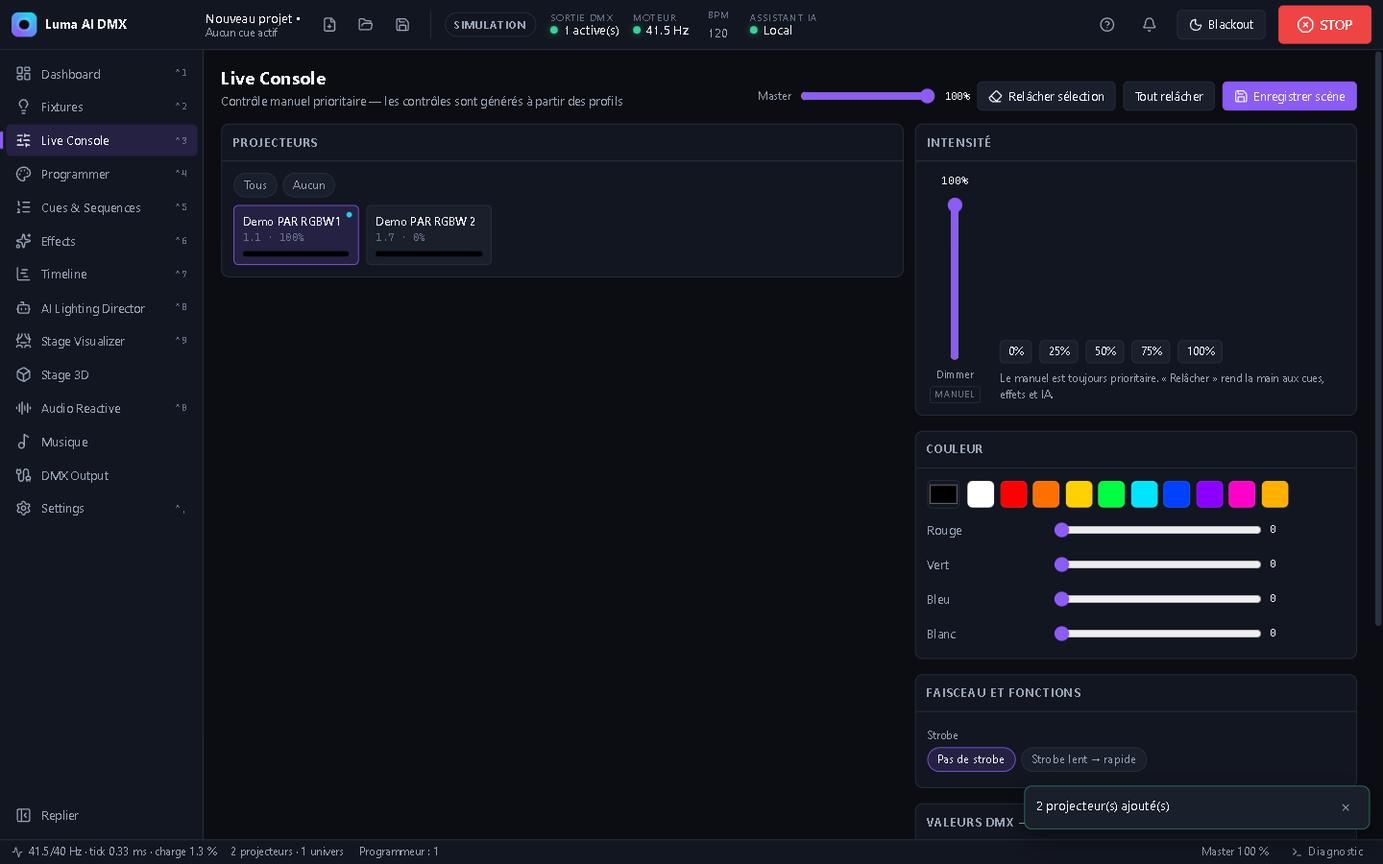
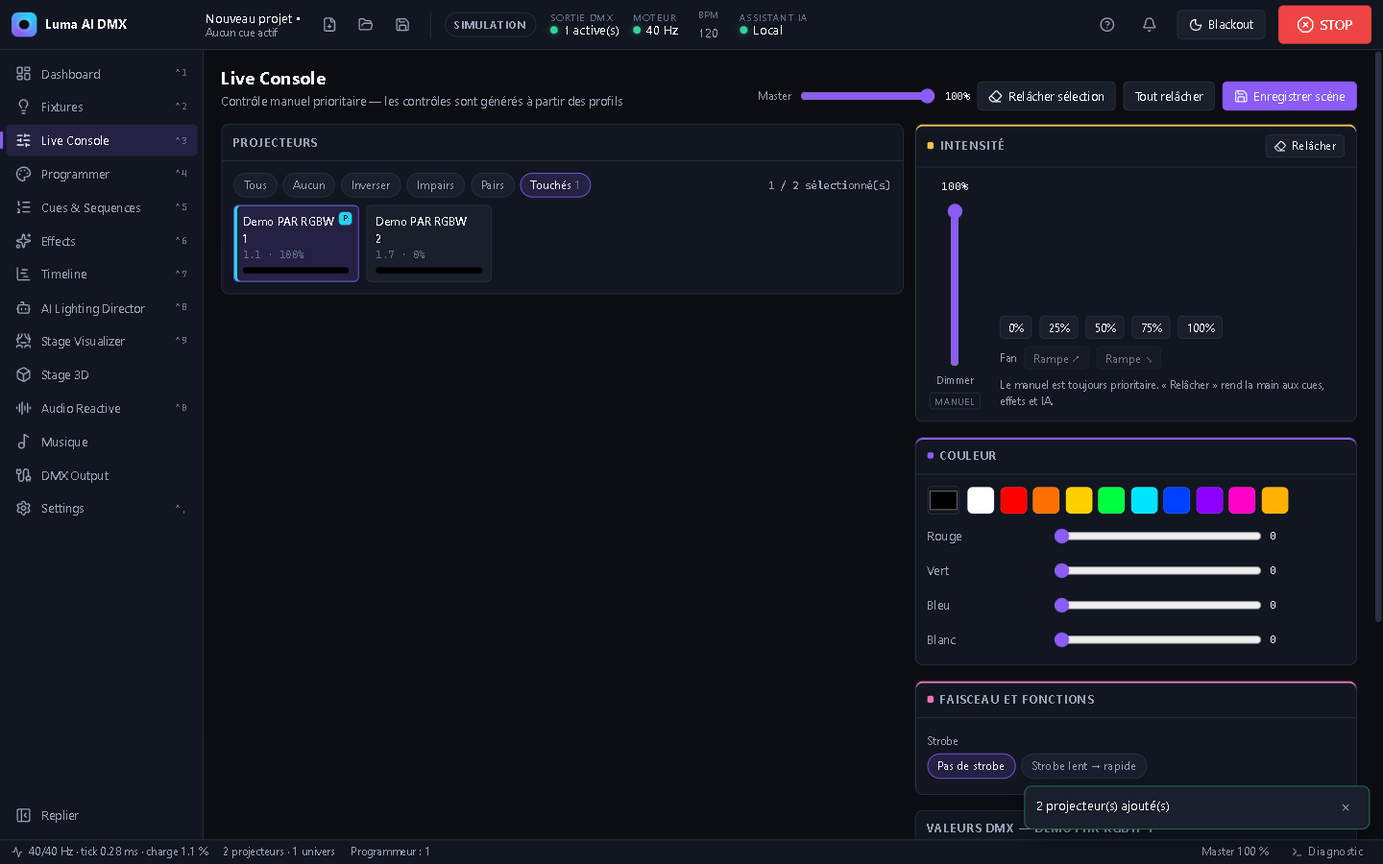
Ce que j’ai ajouté (dans LiveConsole.tsx, avec le CSS dans styles.css) :
Sélection rapide :
nouveaux boutons Inverser, Impairs et Pairs (appliqués à la sélection courante, ou à tous les projecteurs s’il n’y en a qu’un de sélectionné) ;
un bouton « Touchés » pour sélectionner les projecteurs qui ont des valeurs dans le programmeur ;
des puces par type de projecteur (PAR, lyres spot…) à côté des groupes ;
un compteur « n / total sélectionné(s) ».
État « touché » visible : badge P et liseré cyan sur les tuiles concernées, et valeur en cyan sur les curseurs touchés.
Relâcher par famille : chaque panneau (intensité, couleur, position, faisceau) a son propre bouton « Relâcher ». Il n’apparaît que si le programmeur contient des valeurs de cette famille et utilise programmer.release avec la liste des attributs.
Fan :
rampes d’intensité ↗ et ↘ ;
éventail de pan (±0,15 autour de la valeur courante) ;
réparti dans l’ordre de sélection, désactivé avec moins de 2 projecteurs ;
l’envoi réutilise la commande programmer.set existante, une par projecteur : pas de nouvelle commande IPC, donc pas de nouveau schéma Zod.
Présentation : une couleur d’accent par famille d’attributs, et les contrôles passent sous les tuiles quand la fenêtre fait moins de 1180 px.
Textes : tous les nouveaux libellés passent par i18n (clés console.* en FR et EN). Le nombre de textes en dur de ce fichier passe de 59 à 50 et j’ai abaissé la référence dans scripts/i18n-baseline.json. Le manuel reste prioritaire et Échap relâche toujours.

diff --git a/src/renderer/features/LiveConsole.tsx b/src/renderer/features/LiveConsole.tsx
@@ -1,9 +1,10 @@
 import { useMemo, useRef, useState } from 'react';
 import { Eraser, Save, SlidersHorizontal } from 'lucide-react';
 import { useStore, confirmAction, EMPTY_OBJ } from '../store';
+import { useT } from '../i18n';
 import { act } from '../api';
 import { Empty, Modal, Field, PageHead, Panel, pct, useResolved, useThrottled } from '../components/ui';
-import { attributeClass, attributeLabel, EMITTER_ATTRIBUTES } from '../../core/fixtures/attributes';
+import { attributeClass, attributeLabel, EMITTER_ATTRIBUTES, type AttributeClass } from '../../core/fixtures/attributes';
 import { cellColors, colorCapability, colorCells, displayColor } from '../../core/fixtures/color';
 import { channelKey, coarseChannel, type ResolvedFixture } from '../../core/fixtures/profiles';
 import { findModule, moduleDimmerKeys, moduleOfCell } from '../../core/fixtures/modules';
@@ -12,37 +13,65 @@ import type { Channel } from '../../core/model/schemas';
 
 const QUICK_COLORS = ['#FFFFFF', '#FF0000', '#FF7000', '#FFD000', '#00FF40', '#00E5FF', '#0040FF', '#8B00FF', '#FF00C8', '#FFB000'];
 
+/** Fixture ids holding programmer values (the « touched » state shown on tiles and panels). */
+const touchedIds = (programmer: Record<string, Record<string, number>>, ids: string[]) => ids.filter((id) => Object.keys(programmer[id] ?? {}).length > 0);
+
+/** Evenly spread `from` → `to` over `n` fixtures (selection order). */
+export const fanValues = (n: number, from: number, to: number): number[] => Array.from({ length: n }, (_, i) => (n < 2 ? from : from + ((to - from) * i) / (n - 1)));
+
 export function FixtureTiles({ onPick }: { onPick?: () => void }) {
+  const tr = useT();
   const { fixtures } = useResolved();
   const values = useStore((s) => s.values);
   const programmer = useStore((s) => s.runtime?.programmer ?? EMPTY_OBJ) as Record<string, Record<string, number>>;
   const selection = useStore((s) => s.selection);
   const setSelection = useStore((s) => s.setSelection);
   const groups = useStore((s) => s.project!.project.groups);
+  const all = fixtures.map((f) => f.fixture.id);
+  const types = [...new Set(fixtures.map((f) => f.profile.type))];
+  const touched = touchedIds(programmer, all);
+  const parity = (rest: number) => (selection.length > 1 ? selection : all).filter((_, i) => i % 2 === rest);
   const click = (id: string, e: React.MouseEvent) => {
     if (e.ctrlKey || e.metaKey || e.shiftKey) setSelection(selection.includes(id) ? selection.filter((x) => x !== id) : [...selection, id]);
     else setSelection(selection.length === 1 && selection[0] === id ? [] : [id]);
     onPick?.();
   };
+  const same = (ids: string[]) => ids.length > 0 && ids.length === selection.length && ids.every((id) => selection.includes(id));
   return (
     <div className="col">
-      <div className="chips">
-        <button className="chip" onClick={() => setSelection(fixtures.map((f) => f.fixture.id))}>Tous</button>
-        <button className="chip" onClick={() => setSelection([])}>Aucun</button>
-        {groups.map((g) => (
-          <button key={g.id} className={`chip ${g.fixtureIds.length && g.fixtureIds.every((id) => selection.includes(id)) && selection.length === g.fixtureIds.length ? 'on' : ''}`} style={{ borderLeft: `3px solid ${g.color}` }} onClick={() => setSelection(g.fixtureIds)}>
-            {g.name} <span className="dim">{g.fixtureIds.length}</span>
-          </button>
-        ))}
+      <div className="sel-bar">
+        <div className="chips" role="group" aria-label={tr('console.select.aria')}>
+          <button className="chip" onClick={() => setSelection(all)}>{tr('console.select.all')}</button>
+          <button className="chip" onClick={() => setSelection([])}>{tr('console.select.none')}</button>
+          <button className="chip" onClick={() => setSelection(all.filter((id) => !selection.includes(id)))}>{tr('console.select.invert')}</button>
+          <button className="chip" title={tr('console.select.oddEvenHint')} onClick={() => setSelection(parity(0))}>{tr('console.select.odd')}</button>
+          <button className="chip" title={tr('console.select.oddEvenHint')} onClick={() => setSelection(parity(1))}>{tr('console.select.even')}</button>
+          {touched.length > 0 && <button className={`chip touched ${same(touched) ? 'on' : ''}`} title={tr('console.select.touchedHint')} onClick={() => setSelection(touched)}>{tr('console.select.touched')} <span className="dim">{touched.length}</span></button>}
+        </div>
+        <span className="small muted mono">{tr('console.select.count', { n: selection.length, total: all.length })}</span>
       </div>
+      {(types.length > 1 || groups.length > 0) && (
+        <div className="chips">
+          {types.length > 1 && types.map((ty) => {
+            const ids = fixtures.filter((f) => f.profile.type === ty).map((f) => f.fixture.id);
+            return <button key={ty} className={`chip ${same(ids) ? 'on' : ''}`} onClick={() => setSelection(ids)}>{tr(`console.type.${ty}`)} <span className="dim">{ids.length}</span></button>;
+          })}
+          {groups.map((g) => (
+            <button key={g.id} className={`chip ${same(g.fixtureIds) ? 'on' : ''}`} style={{ borderLeft: `3px solid ${g.color}` }} onClick={() => setSelection(g.fixtureIds)}>
+              {g.name} <span className="dim">{g.fixtureIds.length}</span>
+            </button>
+          ))}
+        </div>
+      )}
       <div className="fx-grid" data-testid="fixture-tiles">
         {fixtures.map((rf) => {
           const d = displayColor(rf, values[rf.fixture.id] ?? {});
           const c = d.color;
+          const isTouched = touched.includes(rf.fixture.id);
           return (
-            <div key={rf.fixture.id} className={`fx-tile ${selection.includes(rf.fixture.id) ? 'sel' : ''}`} onClick={(e) => click(rf.fixture.id, e)} title="Clic : sélectionner · Ctrl/Maj+clic : ajouter">
-              {programmer[rf.fixture.id] && <span className="prog" title="Valeurs dans le programmeur (manuel prioritaire)" />}
-              <div style={{ fontWeight: 600, fontSize: 12 }}>{rf.fixture.name}</div>
+            <div key={rf.fixture.id} className={`fx-tile ${selection.includes(rf.fixture.id) ? 'sel' : ''} ${isTouched ? 'touched' : ''}`} onClick={(e) => click(rf.fixture.id, e)} title={tr('console.tile.hint')}>
+              {isTouched && <span className="prog" title={tr('console.tile.touched')}>P</span>}
+              <div className="fx-name">{rf.fixture.name}</div>
               <div className="addr">{rf.fixture.universe}.{rf.fixture.address} · {pct(d.intensity)}</div>
               <div className="swatch" style={{ background: `rgb(${c.r * d.intensity * 255},${c.g * d.intensity * 255},${c.b * d.intensity * 255})` }} />
             </div>
@@ -53,9 +82,9 @@ export function FixtureTiles({ onPick }: { onPick?: () => void }) {
   );
 }
 
-function Slider({ label, value, onChange, source, title }: { label: string; value: number; onChange: (v: number) => void; source?: string; title?: string }) {
+function Slider({ label, value, onChange, source, title, touched }: { label: string; value: number; onChange: (v: number) => void; source?: string; title?: string; touched?: boolean }) {
   return (
-    <div className="ctl-row" title={title}>
+    <div className={`ctl-row ${touched ? 'touched' : ''}`} title={title}>
       <span className="lbl">{label}</span>
       <input type="range" min={0} max={255} value={Math.round(value * 255)} aria-label={label} onChange={(e) => onChange(Number(e.target.value) / 255)} />
       <span className="mono small">{Math.round(value * 255)} {source && <span className="tag-src" title="Source qui contrôle la valeur">{source}</span>}</span>
@@ -99,6 +128,15 @@ function XYPad({ pan, tilt, onChange }: { pan: number; tilt: number; onChange: (
   );
 }
 
+/** Panel action: release only this attribute family (intensity, colour…) on the selection, when the programmer holds some. */
+function ReleaseFamily({ ids, classes }: { ids: string[]; classes: AttributeClass[] }) {
+  const tr = useT();
+  const programmer = useStore((s) => s.runtime?.programmer ?? EMPTY_OBJ) as Record<string, Record<string, number>>;
+  const attributes = [...new Set(ids.flatMap((id) => Object.keys(programmer[id] ?? {})))].filter((a) => classes.includes(attributeClass(a)));
+  if (!attributes.length) return null;
+  return <button className="btn sm" title={tr('console.releaseFamilyHint')} onClick={() => void act({ type: 'programmer.release', fixtureIds: ids, attributes })}><Eraser size={13} />{tr('console.releaseFamily')}</button>;
+}
+
 function RecordSceneDialog({ onClose }: { onClose: () => void }) {
   const [name, setName] = useState('Nouvelle scène');
   const save = async () => {
@@ -116,6 +154,7 @@ function RecordSceneDialog({ onClose }: { onClose: () => void }) {
 }
 
 function Controls({ selected }: { selected: ResolvedFixture[] }) {
+  const tr = useT();
   const values = useStore((s) => s.values);
   const sources = useStore((s) => s.sources);
   const programmer = useStore((s) => s.runtime?.programmer ?? EMPTY_OBJ) as Record<string, Record<string, number>>;
@@ -124,6 +163,10 @@ function Controls({ selected }: { selected: ResolvedFixture[] }) {
   const first = selected[0]!;
   const cur = (attr: string) => programmer[first.fixture.id]?.[attr] ?? values[first.fixture.id]?.[attr] ?? 0;
   const src = (attr: string) => sources[first.fixture.id]?.[attr];
+  const touched = (attr: string) => programmer[first.fixture.id]?.[attr] !== undefined;
+  // Fan: one typed programmer.set per fixture (selection order), so no dedicated IPC command is needed.
+  const fan = (vals: (v: number) => Record<string, number>, from: number, to: number) =>
+    fanValues(ids.length, from, to).forEach((v, i) => void act({ type: 'programmer.set', fixtureIds: [ids[i]!], values: vals(v), confirmSpecial: false }));
   const sendThrottled = useThrottled((vals: Record<string, number>) => void act({ type: 'programmer.set', fixtureIds: ids, values: vals, confirmSpecial: false }), 25);
   const set = async (attr: string, v: number, special = false) => {
     if (special) {
@@ -148,7 +191,10 @@ function Controls({ selected }: { selected: ResolvedFixture[] }) {
   const [scope, setScope] = useState('');
   const scopeModule = scope ? findModule(first.profile, scope) : undefined;
   const dimmerKeys = modules.length ? moduleDimmerKeys(first, scopeModule) : ['dimmer'];
-  const setDimmer = (v: number) => sendThrottled(Object.fromEntries(dimmerKeys.map((k) => [k, v])));
+  const dimmerValues = (v: number) => Object.fromEntries(dimmerKeys.map((k) => [k, v]));
+  const setDimmer = (v: number) => sendThrottled(dimmerValues(v));
+  const top = cur(dimmerKeys[0] ?? 'dimmer') || 1;
+  const panFan = (spread: number) => fan((v) => ({ pan: v }), Math.max(0, cur('pan') - spread), Math.min(1, cur('pan') + spread));
   const colorScope = scopeModule ? { module: scopeModule.name } : {};
   const beam = attrs.filter((a) => attributeClass(a) === 'beam' || attributeClass(a) === 'special');
   const sendColor = useThrottled((hex: string) => void act({ type: 'programmer.setColor', fixtureIds: ids, color: hex, ...colorScope }), 40);
@@ -163,7 +209,7 @@ function Controls({ selected }: { selected: ResolvedFixture[] }) {
           ))}
         </div>
       )}
-      <Panel title="Intensité">
+      <Panel title={tr('console.family.intensity')} className="fam fam-intensity" actions={<ReleaseFamily ids={ids} classes={['intensity']} />}>
         <div className="row" style={{ alignItems: 'flex-end', gap: 18 }}>
           <div className="fader">
             <span className="val">{pct(cur(dimmerKeys[0] ?? 'dimmer'))}</span>
@@ -175,13 +221,18 @@ function Controls({ selected }: { selected: ResolvedFixture[] }) {
             <div className="row">
               {[0, 0.25, 0.5, 0.75, 1].map((v) => <button key={v} className="btn sm" onClick={() => setDimmer(v)}>{v * 100}%</button>)}
             </div>
+            <div className="row" title={tr('console.fanHint')}>
+              <span className="small muted">{tr('console.fan')}</span>
+              <button className="btn sm" disabled={ids.length < 2} onClick={() => fan(dimmerValues, 0, top)}>{tr('console.fanUp')}</button>
+              <button className="btn sm" disabled={ids.length < 2} onClick={() => fan(dimmerValues, top, 0)}>{tr('console.fanDown')}</button>
+            </div>
             <div className="small muted">Le manuel est toujours prioritaire. « Relâcher » rend la main aux cues, effets et IA.</div>
           </div>
         </div>
       </Panel>
 
       {colorCaps.size > 0 && !(colorCaps.size === 1 && colorCaps.has('none')) && (
-        <Panel title="Couleur">
+        <Panel title={tr('console.family.color')} className="fam fam-color" actions={<ReleaseFamily ids={ids} classes={['color']} />}>
           <div className="col">
             <div className="row">
               <input type="color" value={rgbToHex(d.color)} onChange={(e) => sendColor(e.target.value)} title="Couleur convertie selon les capacités de chaque projecteur (RGB, RGBW, roue)" />
@@ -189,9 +240,9 @@ function Controls({ selected }: { selected: ResolvedFixture[] }) {
                 {QUICK_COLORS.map((c) => <button key={c} className="swatch-btn" style={{ background: c }} title={c} onClick={() => void act({ type: 'programmer.setColor', fixtureIds: ids, color: c, ...colorScope })} />)}
               </div>
             </div>
-            {emitters.map((a) => <Slider key={a} label={attributeLabel(a)} value={cur(a)} source={src(a)} onChange={(v) => set(a, v)} />)}
+            {emitters.map((a) => <Slider key={a} label={attributeLabel(a)} value={cur(a)} source={src(a)} touched={touched(a)} onChange={(v) => set(a, v)} />)}
             {has('colorWheel') && channelFor('colorWheel') && <RangeChips channel={channelFor('colorWheel')!} attr="colorWheel" current={cur('colorWheel')} set={set} />}
-            {['cyan', 'magenta', 'yellow', 'cto'].filter(has).map((a) => <Slider key={a} label={attributeLabel(a)} value={cur(a)} source={src(a)} onChange={(v) => set(a, v)} />)}
+            {['cyan', 'magenta', 'yellow', 'cto'].filter(has).map((a) => <Slider key={a} label={attributeLabel(a)} value={cur(a)} source={src(a)} touched={touched(a)} onChange={(v) => set(a, v)} />)}
           </div>
         </Panel>
       )}
@@ -213,25 +264,28 @@ function Controls({ selected }: { selected: ResolvedFixture[] }) {
       )}
 
       {(has('pan') || has('tilt')) && (
-        <Panel title="Position">
+        <Panel title={tr('console.family.position')} className="fam fam-position" actions={<ReleaseFamily ids={ids} classes={['position']} />}>
           <div className="row" style={{ alignItems: 'flex-start', gap: 16 }}>
             <XYPad pan={cur('pan')} tilt={cur('tilt')} onChange={(p, t) => sendThrottled({ ...(has('pan') ? { pan: p } : {}), ...(has('tilt') ? { tilt: t } : {}) })} />
             <div className="col grow">
-              {has('pan') && <Slider label="Pan (16 bits)" value={cur('pan')} source={src('pan')} onChange={(v) => set('pan', v)} />}
-              {has('tilt') && <Slider label="Tilt (16 bits)" value={cur('tilt')} source={src('tilt')} onChange={(v) => set('tilt', v)} />}
-              {has('panTiltSpeed') && <Slider label="Vitesse P/T" value={cur('panTiltSpeed')} onChange={(v) => set('panTiltSpeed', v)} />}
-              <button className="btn sm" style={{ alignSelf: 'flex-start' }} onClick={() => sendThrottled({ pan: 0.5, tilt: 0.5 })}>Centrer</button>
+              {has('pan') && <Slider label="Pan (16 bits)" value={cur('pan')} source={src('pan')} touched={touched('pan')} onChange={(v) => set('pan', v)} />}
+              {has('tilt') && <Slider label="Tilt (16 bits)" value={cur('tilt')} source={src('tilt')} touched={touched('tilt')} onChange={(v) => set('tilt', v)} />}
+              {has('panTiltSpeed') && <Slider label="Vitesse P/T" value={cur('panTiltSpeed')} touched={touched('panTiltSpeed')} onChange={(v) => set('panTiltSpeed', v)} />}
+              <div className="row">
+                <button className="btn sm" onClick={() => sendThrottled({ pan: 0.5, tilt: 0.5 })}>{tr('console.center')}</button>
+                {has('pan') && <button className="btn sm" disabled={ids.length < 2} title={tr('console.fanHint')} onClick={() => panFan(0.15)}>{tr('console.fanPan')}</button>}
+              </div>
             </div>
           </div>
         </Panel>
       )}
 
       {beam.length > 0 && (
-        <Panel title="Faisceau et fonctions">
+        <Panel title={tr('console.family.beam')} className="fam fam-beam" actions={<ReleaseFamily ids={ids} classes={['beam', 'special']} />}>
           {beam.map((a) => {
             const ch = channelFor(a);
             if (!ch) return null;
-            return ch.ranges.length ? <RangeChips key={a} channel={ch} attr={a} current={cur(a)} set={set} /> : <Slider key={a} label={ch.name} value={cur(a)} source={src(a)} onChange={(v) => set(a, v)} />;
+            return ch.ranges.length ? <RangeChips key={a} channel={ch} attr={a} current={cur(a)} set={set} /> : <Slider key={a} label={ch.name} value={cur(a)} source={src(a)} touched={touched(a)} onChange={(v) => set(a, v)} />;
           })}
         </Panel>
       )}
@@ -288,7 +342,7 @@ export function LiveConsole() {
       {fixtures.length === 0 ? (
         <Empty icon={<SlidersHorizontal size={32} />} title="Aucun projecteur" action={<button className="btn primary" onClick={() => useStore.getState().setPage('fixtures')}>Ouvrir le patch</button>}>Patchez des projecteurs pour les piloter.</Empty>
       ) : (
-        <div className="split" style={{ gridTemplateColumns: 'minmax(0, 1fr) 460px' }}>
+        <div className="split console-split">
           <Panel title="Projecteurs"><FixtureTiles /></Panel>
           {selected.length ? <Controls selected={selected} /> : <Panel title="Contrôles"><p className="muted" style={{ margin: 0 }}>Sélectionnez un ou plusieurs projecteurs (ou un groupe) pour afficher leurs contrôles.</p></Panel>}
         </div>

diff --git a/tests/components/console.test.tsx b/tests/components/console.test.tsx
@@ -60,4 +60,53 @@ describe('Live Console', () => {
     await rtlAct(async () => useStore.getState().confirm!.resolve(true));
     expect(invoke).toHaveBeenCalledWith(expect.objectContaining({ type: 'programmer.set', fixtureIds: ['spot1'], confirmSpecial: true }));
   });
+  it('sélection rapide : impairs / pairs / inverser, par type et compteur', () => {
+    render(<LiveConsole />);
+    const sel = () => useStore.getState().selection;
+    fireEvent.click(screen.getByRole('button', { name: 'Impairs' }));
+    expect(sel()).toEqual(['par1', 'rgbw', 'spot2']);
+    fireEvent.click(screen.getByRole('button', { name: 'Pairs' })); // within the current selection
+    expect(sel()).toEqual(['rgbw']);
+    fireEvent.click(screen.getByRole('button', { name: 'Inverser' }));
+    expect(sel()).toEqual(['par1', 'par2', 'spot1', 'spot2']);
+    fireEvent.click(screen.getByRole('button', { name: /Lyres spot/ }));
+    expect(sel()).toEqual(['spot1', 'spot2']);
+    expect(screen.getByText('2 / 5 sélectionné(s)')).toBeInTheDocument();
+  });
+
+  it('état « touché » visible et relâche par famille', async () => {
+    useStore.setState({ runtime: { programmer: { par1: { red: 1 } }, engine: { master: 1, programmerCount: 1 } } as never });
+    render(<LiveConsole />);
+    expect(screen.getByText('PAR 1').closest('.fx-tile')).toHaveClass('touched');
+    expect(screen.getByText('PAR 2').closest('.fx-tile')).not.toHaveClass('touched');
+    fireEvent.click(screen.getByRole('button', { name: /Touchés/ }));
+    expect(useStore.getState().selection).toEqual(['par1']);
+    expect(screen.getByRole('slider', { name: 'Rouge' }).closest('.ctl-row')).toHaveClass('touched');
+    expect(screen.getAllByRole('button', { name: 'Relâcher' })).toHaveLength(1); // colour only: nothing to release in intensity
+    await rtlAct(async () => {
+      fireEvent.click(screen.getByRole('button', { name: 'Relâcher' }));
+    });
+    expect(invoke).toHaveBeenCalledWith({ type: 'programmer.release', fixtureIds: ['par1'], attributes: ['red'] });
+  });
+
+  it('fan : rampe d’intensité et éventail de pan répartis dans l’ordre de sélection', async () => {
+    render(<LiveConsole />);
+    fireEvent.click(screen.getByText('Pars'));
+    await rtlAct(async () => {
+      fireEvent.click(screen.getByRole('button', { name: 'Rampe ↗' }));
+    });
+    expect(invoke).toHaveBeenCalledWith({ type: 'programmer.set', fixtureIds: ['par1'], values: { dimmer: 0 }, confirmSpecial: false });
+    expect(invoke).toHaveBeenCalledWith({ type: 'programmer.set', fixtureIds: ['par2'], values: { dimmer: 0.5 }, confirmSpecial: false });
+    expect(invoke).toHaveBeenCalledWith({ type: 'programmer.set', fixtureIds: ['rgbw'], values: { dimmer: 1 }, confirmSpecial: false });
+
+    invoke.mockClear();
+    fireEvent.click(screen.getByRole('button', { name: /Lyres spot/ }));
+    await rtlAct(async () => {
+      fireEvent.click(screen.getByRole('button', { name: 'Éventail pan' }));
+    });
+    expect(invoke).toHaveBeenCalledWith({ type: 'programmer.set', fixtureIds: ['spot1'], values: { pan: 0 }, confirmSpecial: false });
+    expect(invoke).toHaveBeenCalledWith({ type: 'programmer.set', fixtureIds: ['spot2'], values: { pan: 0.15 }, confirmSpecial: false });
+    fireEvent.click(screen.getByText('Spot 1')); // single fixture: fan is meaningless
+    expect(screen.getByRole('button', { name: 'Éventail pan' })).toBeDisabled();
+  });
 });

diff --git a/src/renderer/styles.css b/src/renderer/styles.css
@@ -213,7 +213,20 @@ input[type='color'] { width: 34px; height: 30px; padding: 0; border: 1px solid v
 .fx-tile.sel { border-color: var(--violet); background: var(--violet-soft); }
 .fx-tile .swatch { width: 100%; height: 6px; border-radius: 3px; margin-top: 6px; background: #000; }
 .fx-tile .addr { font-size: 10.5px; color: var(--text-3); font-family: var(--mono); }
-.fx-tile .prog { position: absolute; top: 6px; right: 6px; width: 6px; height: 6px; border-radius: 50%; background: var(--cyan); }
+.fx-tile .prog { position: absolute; top: 6px; right: 6px; min-width: 14px; height: 14px; padding: 0 3px; border-radius: 4px; background: var(--cyan); color: var(--bg); font: 700 9px/14px var(--mono); text-align: center; }
+.fx-tile.touched { box-shadow: inset 3px 0 0 var(--cyan); }
+.fx-tile .fx-name { font-weight: 600; font-size: 12px; padding-right: 14px; overflow-wrap: anywhere; }
+.sel-bar { display: flex; align-items: center; justify-content: space-between; gap: 8px; flex-wrap: wrap; }
+.chip.touched { border-color: var(--cyan); }
+.ctl-row.touched .mono { color: var(--cyan); font-weight: 600; }
+.panel.fam { box-shadow: inset 0 2px 0 var(--fam); }
+.panel.fam .panel-head h2::before { content: ''; display: inline-block; width: 7px; height: 7px; border-radius: 2px; margin-right: 7px; background: var(--fam); vertical-align: 1px; }
+.fam-intensity { --fam: #f5c542; }
+.fam-color { --fam: var(--violet); }
+.fam-position { --fam: var(--cyan); }
+.fam-beam { --fam: #f472b6; }
+.console-split { grid-template-columns: minmax(0, 1fr) 460px; }
+@media (max-width: 1180px) { .console-split { grid-template-columns: minmax(0, 1fr); } }
 .fader-bank { display: flex; gap: 14px; flex-wrap: wrap; }
 .fader { display: flex; flex-direction: column; align-items: center; gap: 6px; width: 64px; }
 .fader input[type='range'] { writing-mode: vertical-lr; direction: rtl; width: 30px; height: 170px; }

diff --git a/src/renderer/i18n/fr.ts b/src/renderer/i18n/fr.ts
@@ -163,6 +163,37 @@ export const fr = {
   'music.edit.cancel': 'Annuler',
   'music.edit.save': 'Enregistrer',
   'music.edit.open': 'Modifier la section',
+  'console.select.aria': 'Sélection rapide',
+  'console.select.all': 'Tous',
+  'console.select.none': 'Aucun',
+  'console.select.invert': 'Inverser',
+  'console.select.odd': 'Impairs',
+  'console.select.even': 'Pairs',
+  'console.select.oddEvenHint': 'Dans la sélection courante (ou parmi tous les projecteurs si un seul est sélectionné)',
+  'console.select.touched': 'Touchés',
+  'console.select.touchedHint': 'Sélectionner les projecteurs qui ont des valeurs dans le programmeur',
+  'console.select.count': '{n} / {total} sélectionné(s)',
+  'console.type.par': 'PAR',
+  'console.type.moving-head-spot': 'Lyres spot',
+  'console.type.moving-head-wash': 'Lyres wash',
+  'console.type.strobe': 'Strobes',
+  'console.type.dimmer': 'Gradateurs',
+  'console.type.led-bar': 'Barres LED',
+  'console.type.other': 'Autres',
+  'console.tile.hint': 'Clic : sélectionner · Ctrl/Maj+clic : ajouter',
+  'console.tile.touched': 'Valeurs dans le programmeur (manuel prioritaire)',
+  'console.family.intensity': 'Intensité',
+  'console.family.color': 'Couleur',
+  'console.family.position': 'Position',
+  'console.family.beam': 'Faisceau et fonctions',
+  'console.releaseFamily': 'Relâcher',
+  'console.releaseFamilyHint': 'Relâcher cette famille d’attributs sur la sélection',
+  'console.fan': 'Fan',
+  'console.fanUp': 'Rampe ↗',
+  'console.fanDown': 'Rampe ↘',
+  'console.fanHint': 'Répartit la valeur sur la sélection, dans l’ordre de sélection (2 projecteurs minimum)',
+  'console.fanPan': 'Éventail pan',
+  'console.center': 'Centrer',
 } as const;
 
 export type MessageKey = keyof typeof fr;

diff --git a/src/renderer/i18n/en.ts b/src/renderer/i18n/en.ts
@@ -162,4 +162,35 @@ export const en: Record<MessageKey, string> = {
   'music.edit.cancel': 'Cancel',
   'music.edit.save': 'Save',
   'music.edit.open': 'Edit the section',
+  'console.select.aria': 'Quick selection',
+  'console.select.all': 'All',
+  'console.select.none': 'None',
+  'console.select.invert': 'Invert',
+  'console.select.odd': 'Odd',
+  'console.select.even': 'Even',
+  'console.select.oddEvenHint': 'Within the current selection (or among all fixtures when only one is selected)',
+  'console.select.touched': 'Touched',
+  'console.select.touchedHint': 'Select the fixtures holding values in the programmer',
+  'console.select.count': '{n} / {total} selected',
+  'console.type.par': 'PARs',
+  'console.type.moving-head-spot': 'Spot heads',
+  'console.type.moving-head-wash': 'Wash heads',
+  'console.type.strobe': 'Strobes',
+  'console.type.dimmer': 'Dimmers',
+  'console.type.led-bar': 'LED bars',
+  'console.type.other': 'Others',
+  'console.tile.hint': 'Click: select · Ctrl/Shift+click: add',
+  'console.tile.touched': 'Values in the programmer (manual has priority)',
+  'console.family.intensity': 'Intensity',
+  'console.family.color': 'Colour',
+  'console.family.position': 'Position',
+  'console.family.beam': 'Beam and functions',
+  'console.releaseFamily': 'Release',
+  'console.releaseFamilyHint': 'Release this attribute family on the selection',
+  'console.fan': 'Fan',
+  'console.fanUp': 'Ramp ↗',
+  'console.fanDown': 'Ramp ↘',
+  'console.fanHint': 'Spreads the value across the selection, in selection order (2 fixtures minimum)',
+  'console.fanPan': 'Pan fan',
+  'console.center': 'Center',
 };
